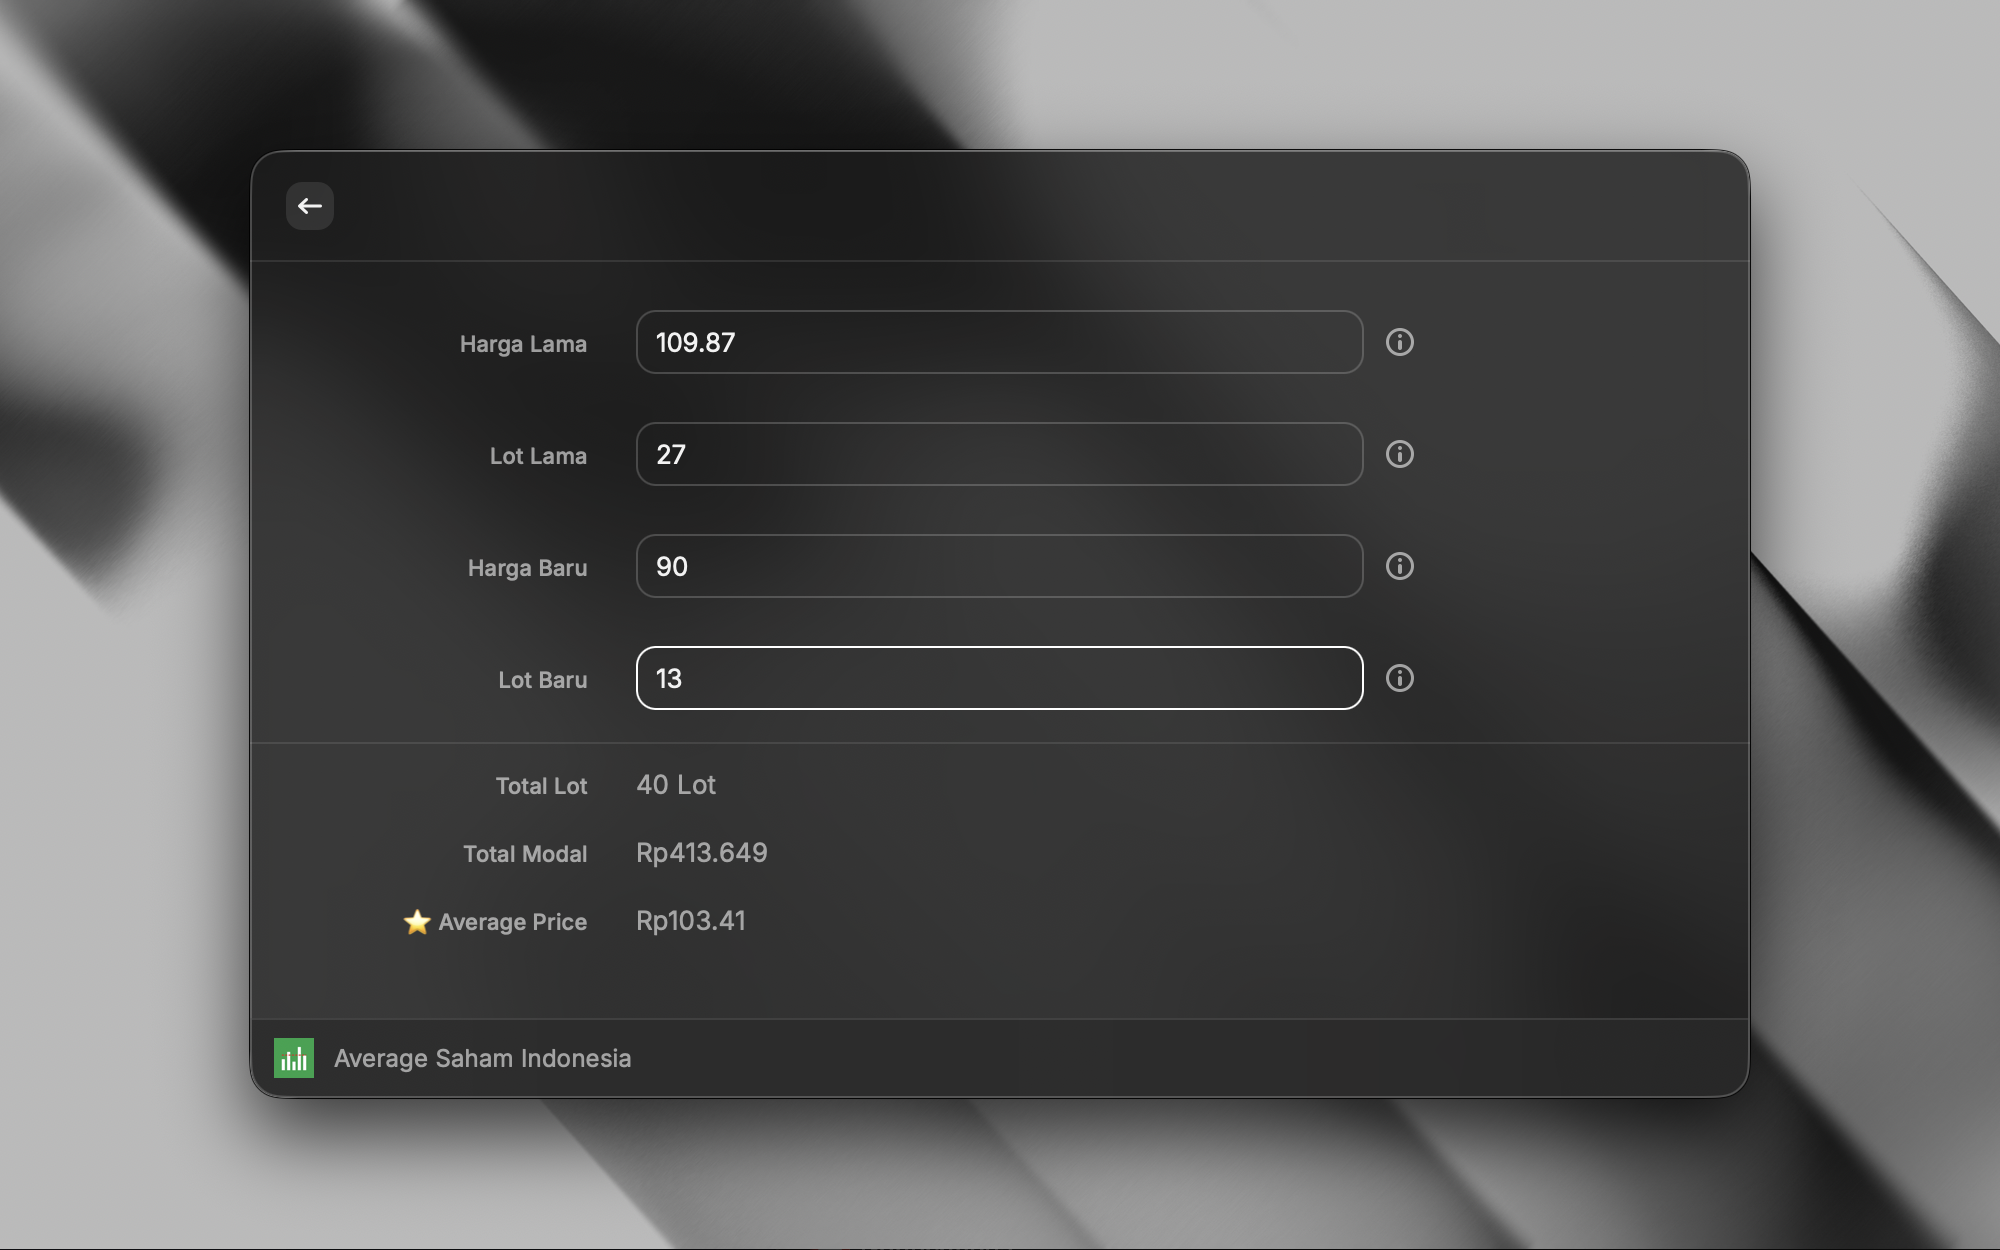
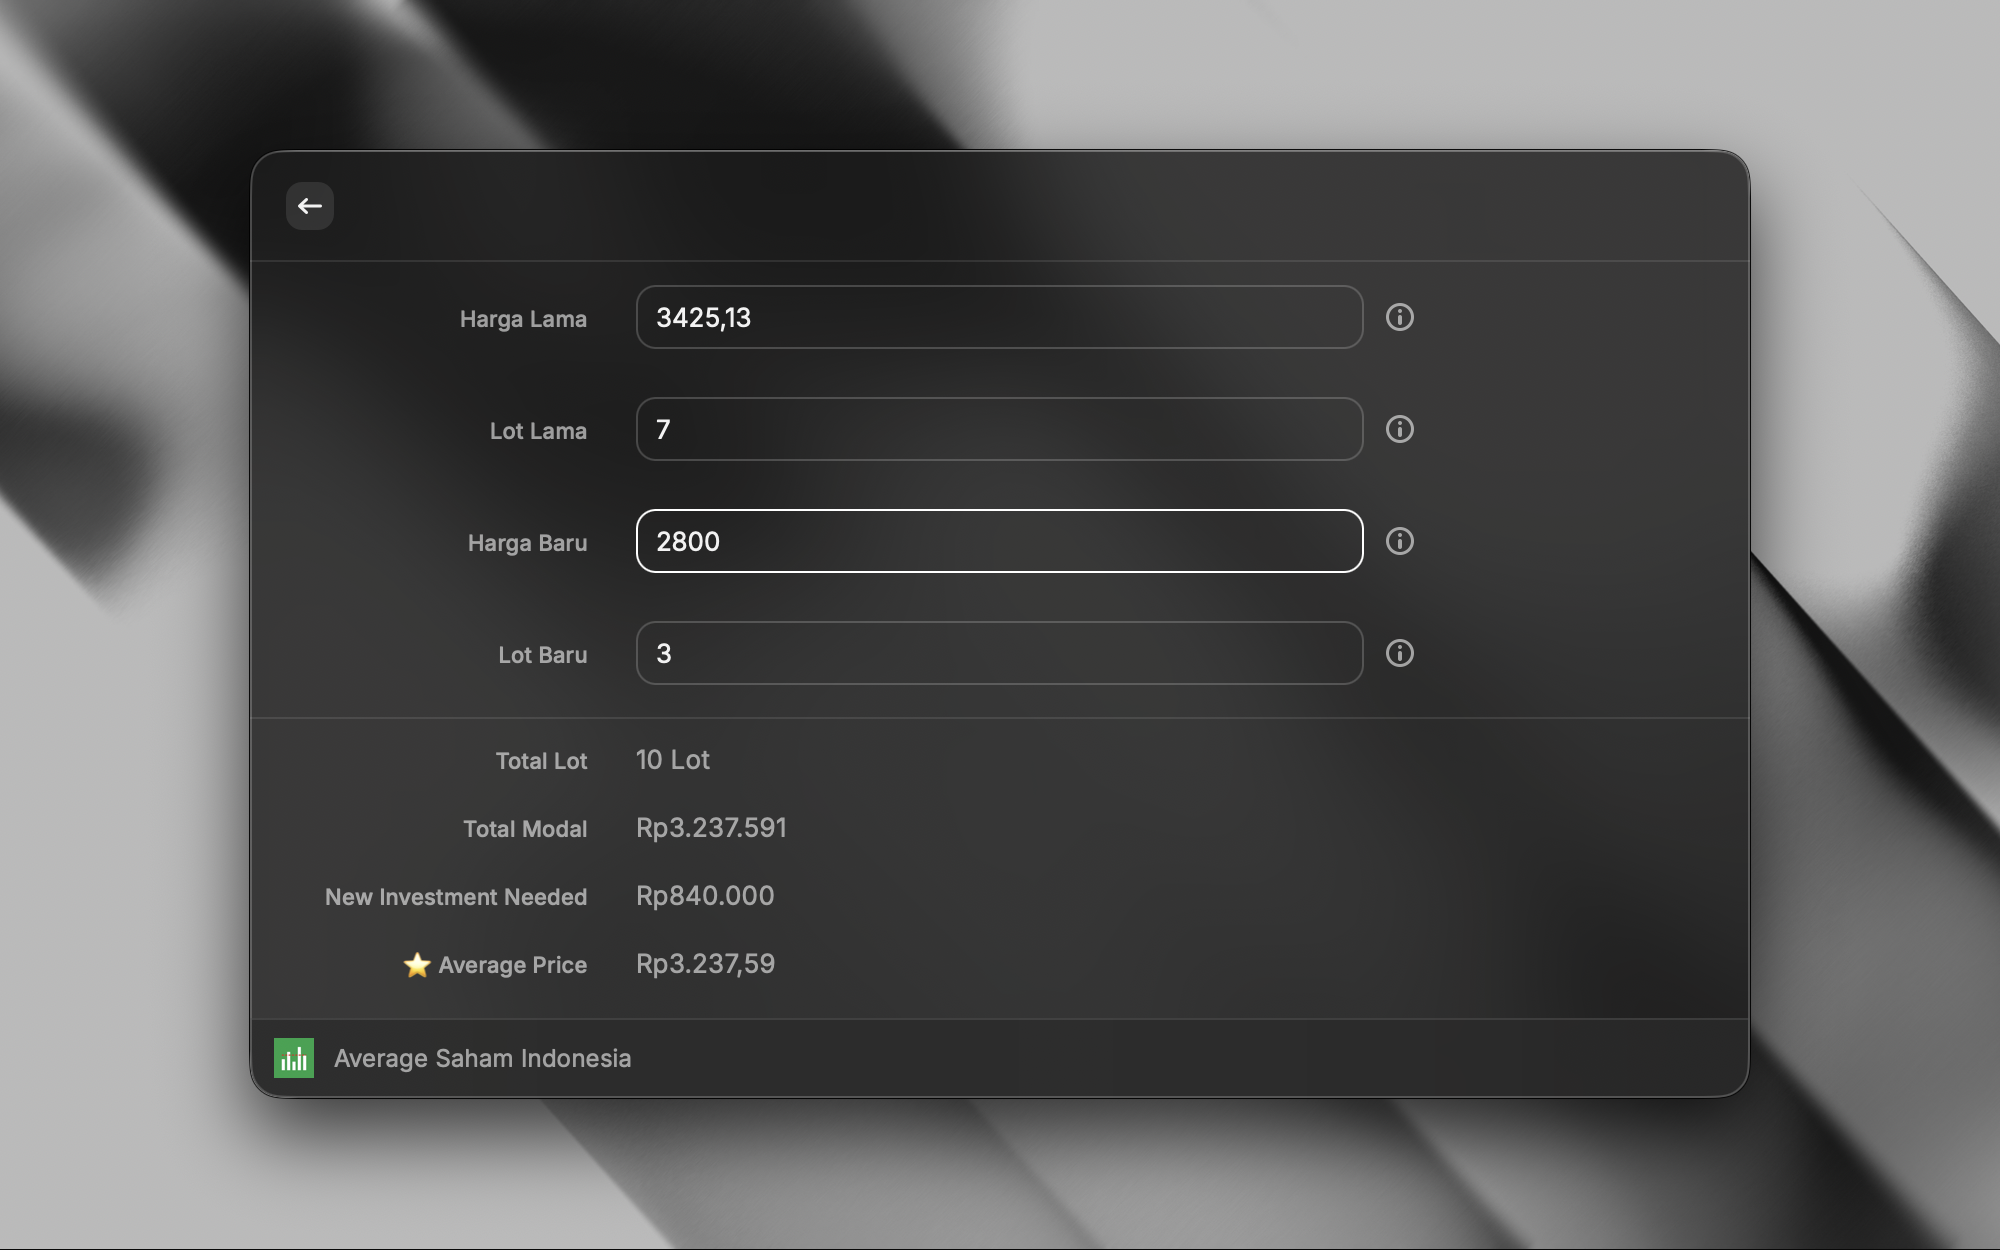
Add newInvestmentNeeded field and UI display

diff --git a/src/utils/calculator.ts b/src/utils/calculator.ts
@@ -36,6 +36,11 @@ export function calculateInvestment(price: number, shares: number): number {
  *
  * Average Price = Total Investment / Total Shares
  * ```
+ *
+ * Note: `newInvestment` (the cash needed for the new purchase) is already
+ * part of `totalInvestment`, so it must NOT be added again when computing
+ * `averagePrice`. It's returned separately as `newInvestmentNeeded` purely
+ * so the UI can show "how much money to prepare for this purchase".
  */
 export function calculateAverage({ oldPrice, oldLot, newPrice, newLot }: AverageInput): AverageResult {
   const oldShares = calculateShares(oldLot);
@@ -52,6 +57,7 @@ export function calculateAverage({ oldPrice, oldLot, newPrice, newLot }: Average
     totalLot: oldLot + newLot,
     totalShares,
     totalInvestment,
+    newInvestmentNeeded: newInvestment,
     averagePrice,
   };
 }

diff --git a/src/types.ts b/src/types.ts
@@ -21,6 +21,8 @@ export interface AverageResult {
   totalInvestment: number;
   /** Total investment divided by total shares. */
   averagePrice: number;
+  /** Cash needed for the new purchase alone (new price × new shares). */
+  newInvestmentNeeded: number;
 }
 
 /**

diff --git a/src/components/Result.tsx b/src/components/Result.tsx
@@ -21,6 +21,7 @@ export function Result({ result, message }: ResultProps) {
         <>
           <Form.Description title="Total Lot" text={formatLot(result.totalLot)} />
           <Form.Description title="Total Modal" text={formatCurrency(result.totalInvestment)} />
+          <Form.Description title="New Investment Needed" text={formatCurrency(result.newInvestmentNeeded)} />
           <Form.Description title="⭐ Average Price" text={formatPrice(result.averagePrice)} />
         </>
       ) : (